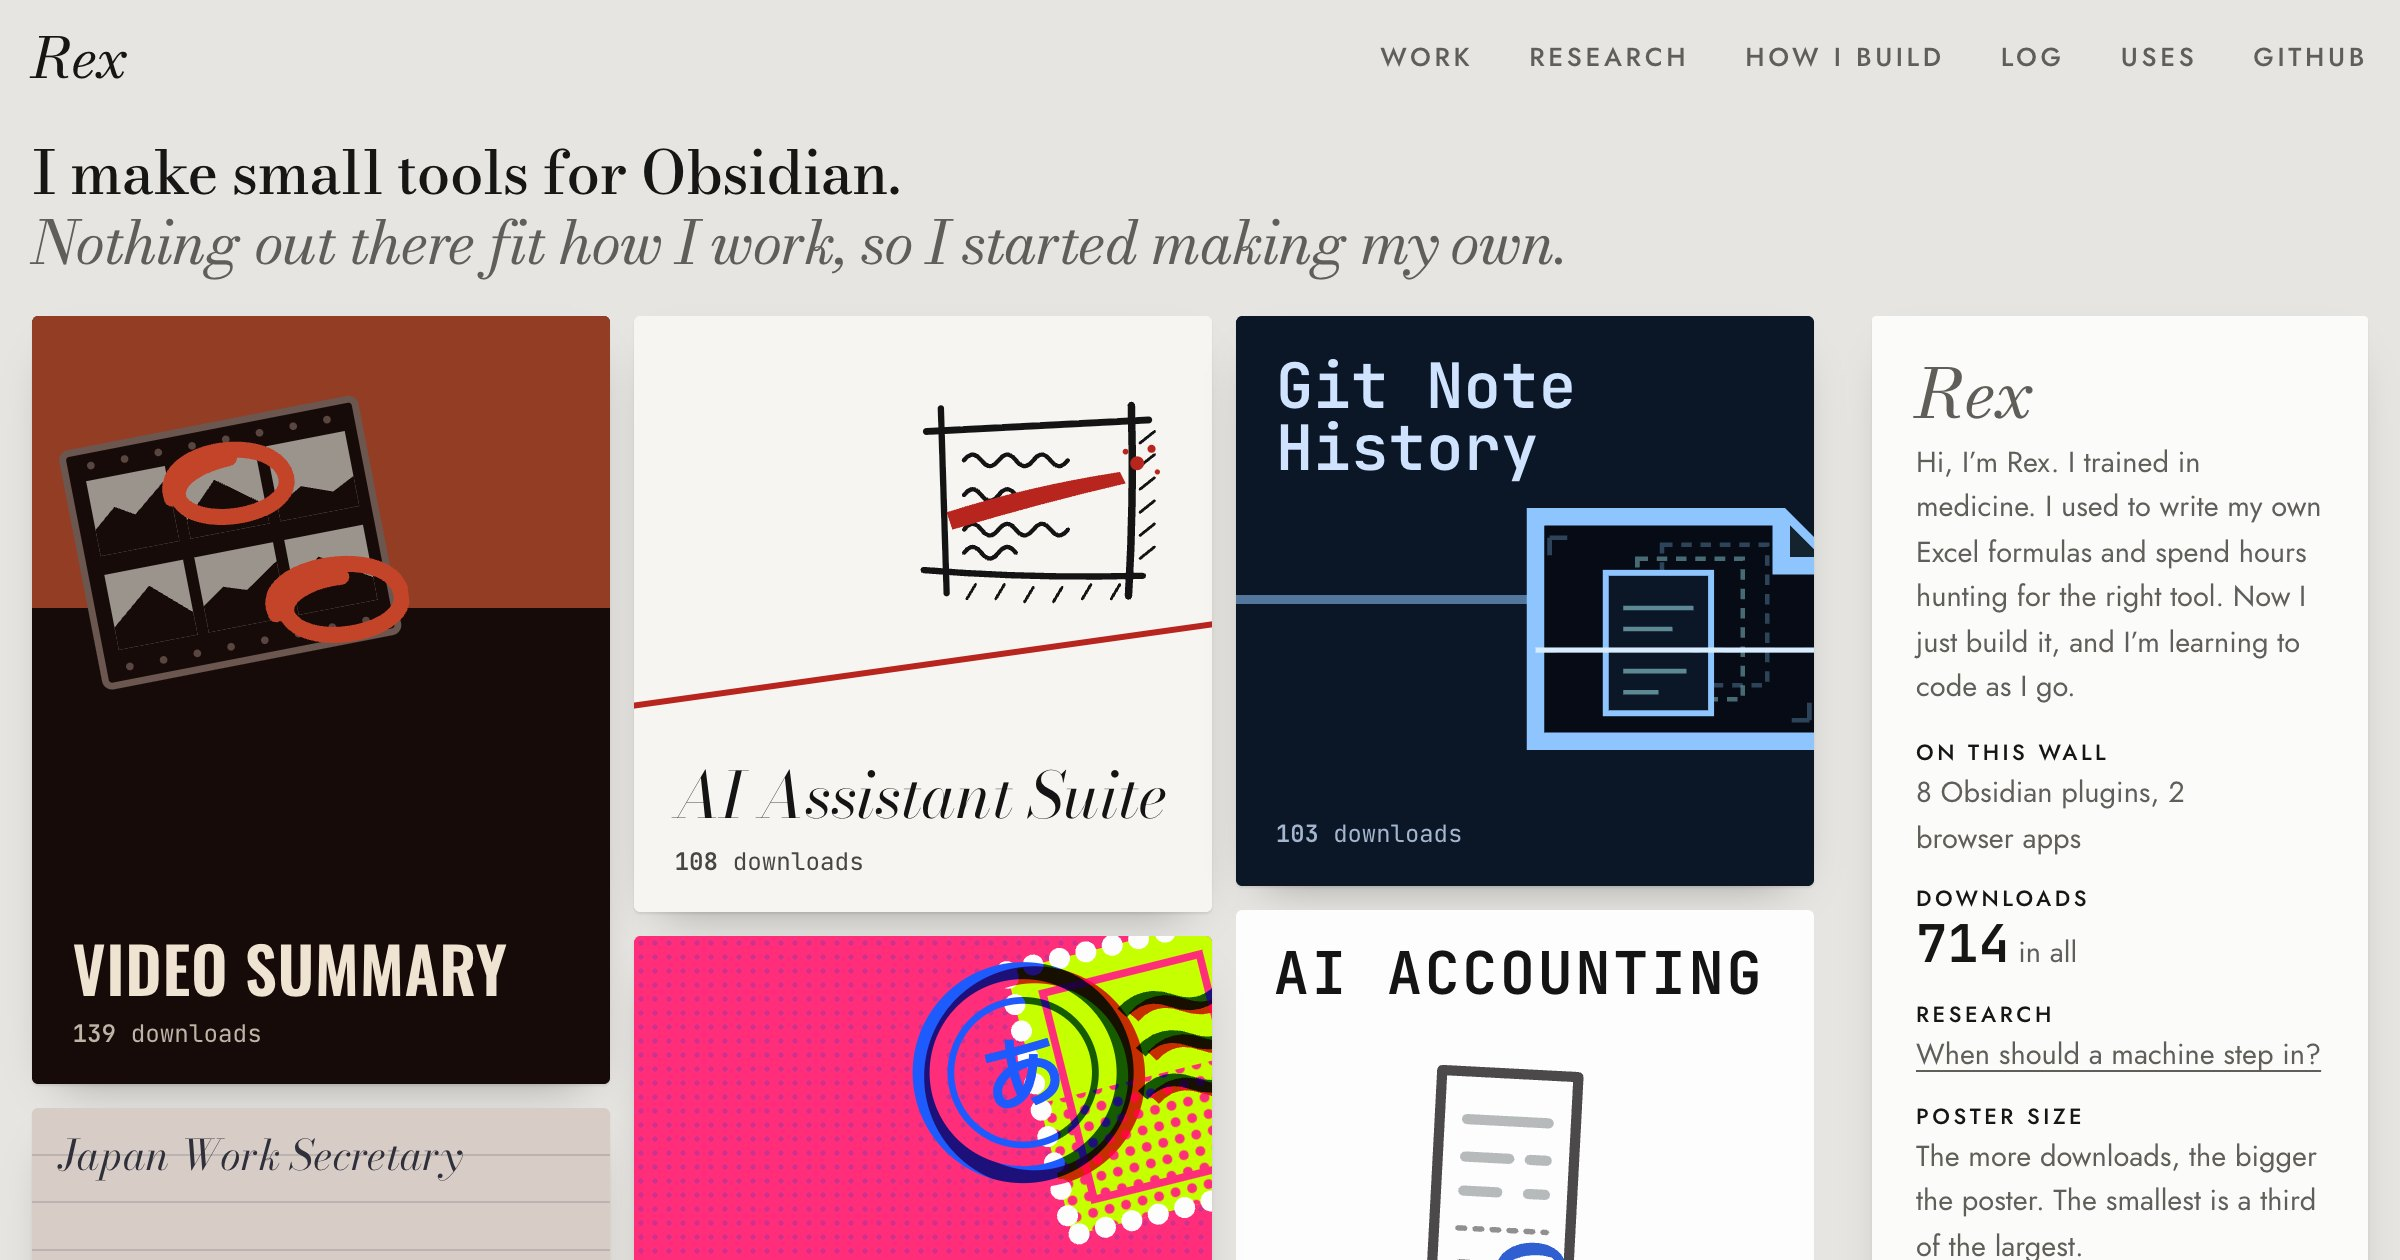
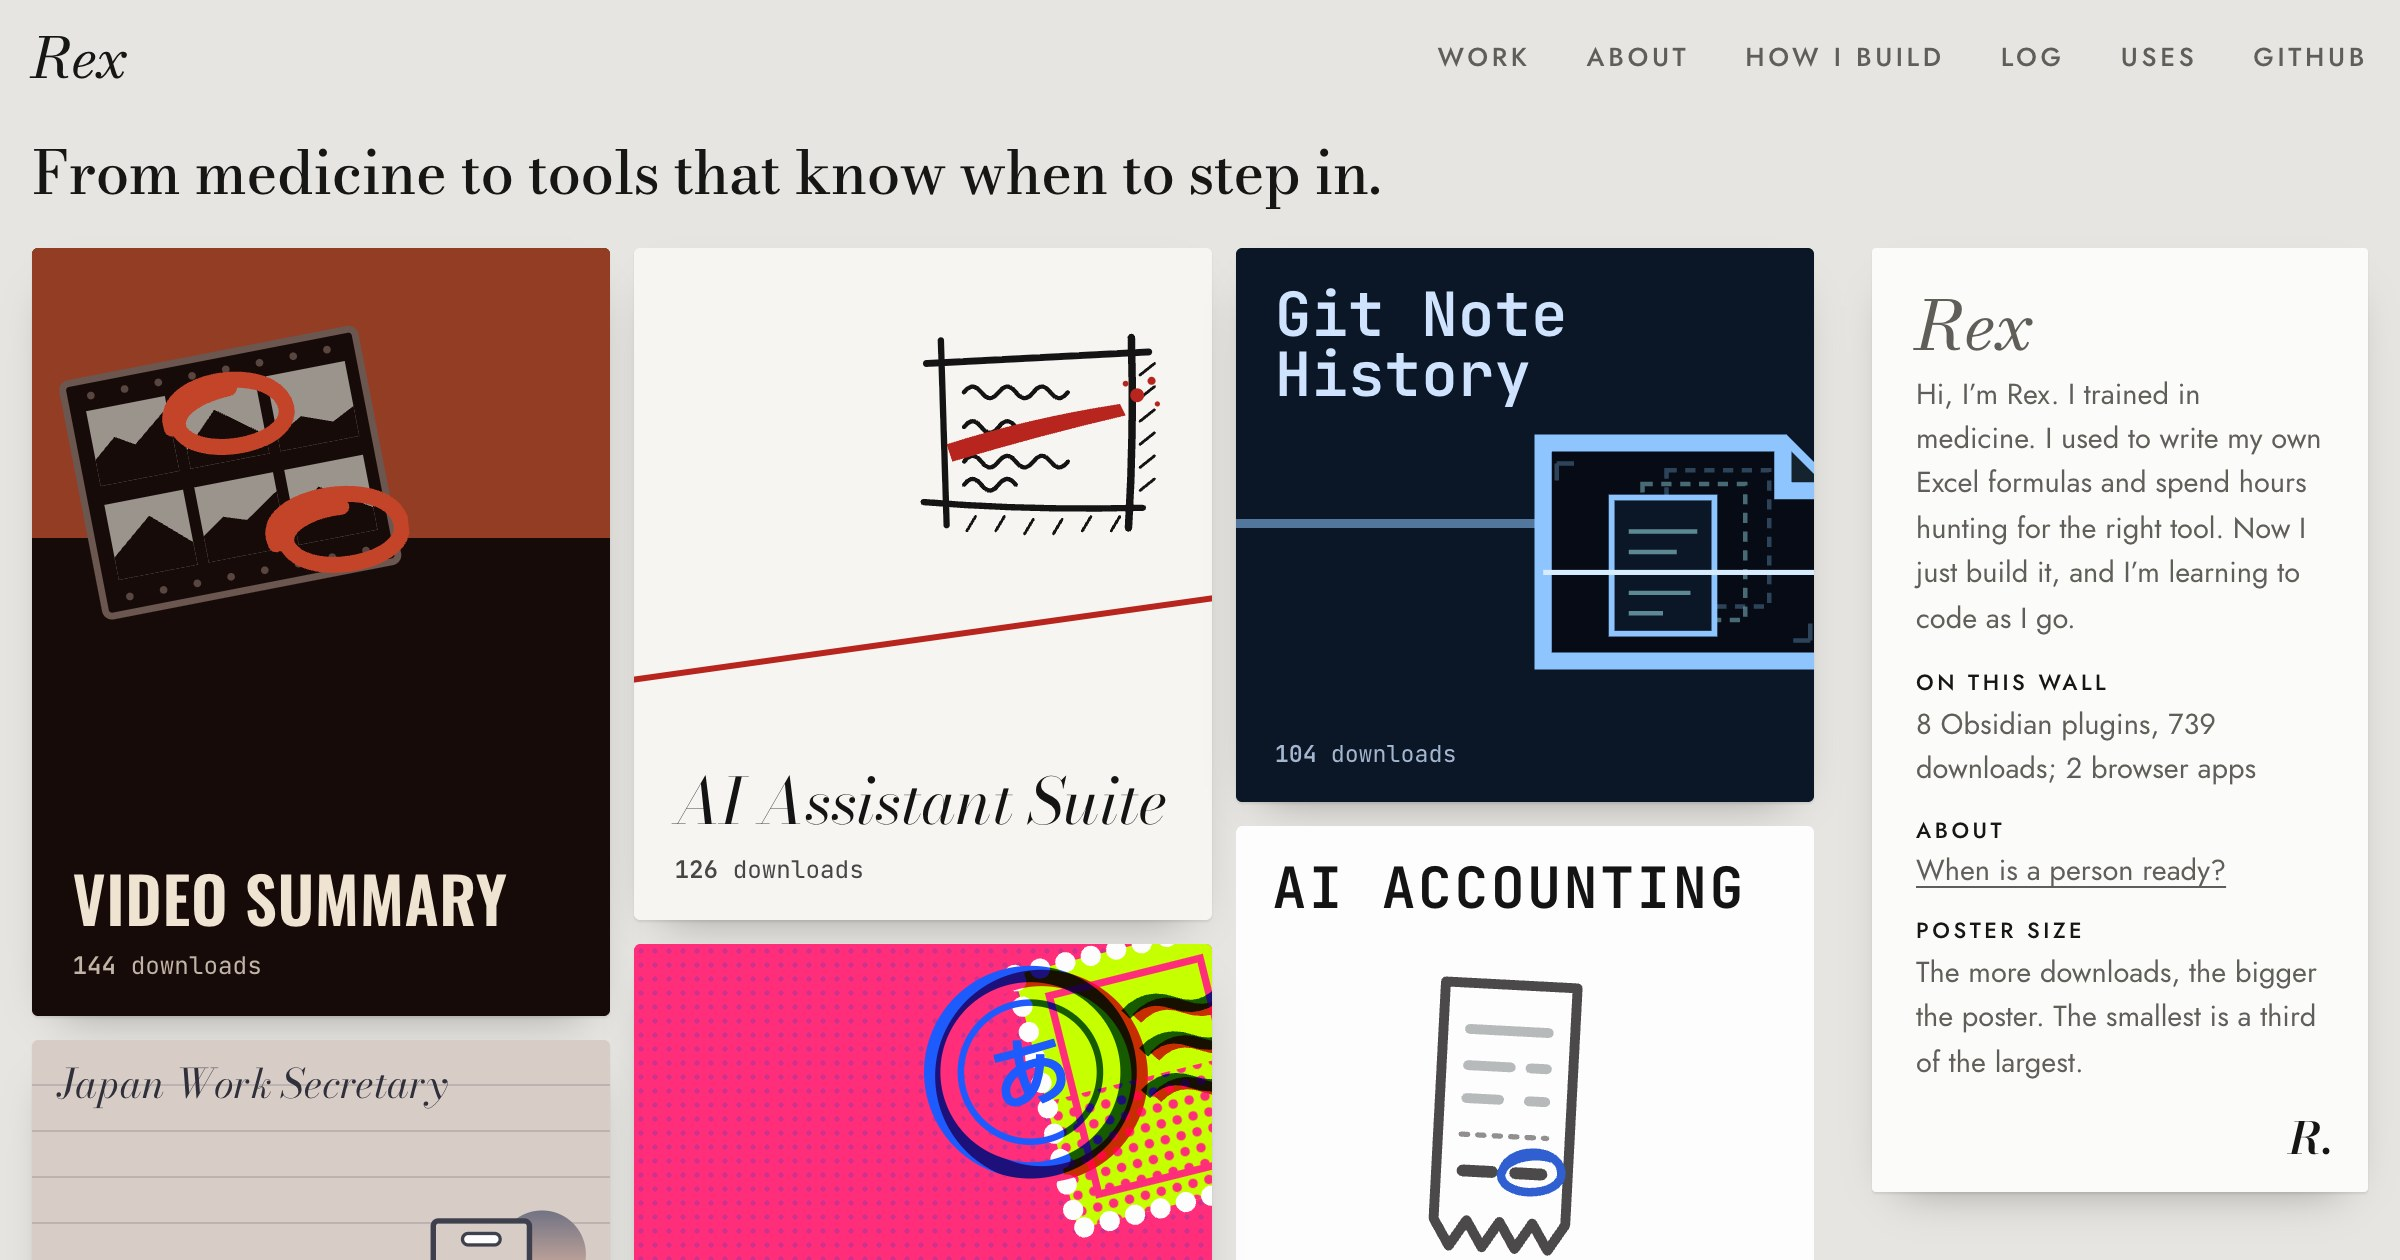
Shorten the headline and keep the AI Assistant Suite sheet two-column

Changed region(s): [[0.0, 0.1857, 1.0, 1.0], [0.0312, 0.1238, 0.5625, 0.1548], [0.5625, 0.031, 0.7188, 0.0619]]

diff --git a/main.js b/main.js
@@ -8,7 +8,7 @@
     "video-summary": { page: "video-summary/", media: { video: "video-summary/demo.mp4", poster: "video-summary/demo-poster.jpg", w: 1920, h: 1200 }, install: true,
       notes: ["Paste a YouTube or Bilibili link", "Key points with timestamps, and the frames worth keeping", "A note you can read, not a transcript"],
       extra: '<a href="https://chromewebstore.google.com/detail/video-summary-capture/jomhbnehfmgblkllekjeioancoocppjn">Chrome companion</a>' },
-    "ai-assistant-suite": { media: { src: "assets/cabinet/aas.png?v=3", w: 2225, h: 1515, wide: true, max: 880 }, install: true,
+    "ai-assistant-suite": { media: { src: "assets/cabinet/aas.png?v=3", w: 2225, h: 1515, max: 481 }, install: true,
       notes: ["Title, tags, folder and tidier text, proposed", "Cloud models or one on your own machine", "Nothing changes until you tick it"] },
     "git-note-history": { page: "git-note-history/", media: { src: "git-note-history/f/trail.jpg", w: 1060, h: 690, max: 530 }, install: true,
       notes: ["Every save is a commit", "Search any sentence you ever wrote", "Take back one passage, not the whole file"] },

diff --git a/index.html b/index.html
@@ -41,7 +41,7 @@
 <main id="top">
 
   <section class="room" id="work" aria-labelledby="h-work">
-    <h1 id="h-work"><span>I trained in medicine. Now I build tools that know when to step in.</span> <span class="dim">Eight Obsidian plugins and two browser apps, because nothing out there fit how I work.</span></h1>
+    <h1 id="h-work"><span>From medicine to tools that know when to step in.</span></h1>
 
     <div class="hang">
       <ol class="wall" id="wall" aria-label="Plugins and apps, larger posters have more downloads">
@@ -223,7 +223,7 @@
 </dialog>
 
 <script src="heat.js?v=2"></script>
-<script src="main.js?v=75"></script>
+<script src="main.js?v=76"></script>
 <script data-goatcounter="https://rexxall.goatcounter.com/count" async src="//gc.zgo.at/count.js"></script>
 </body>
 </html>
